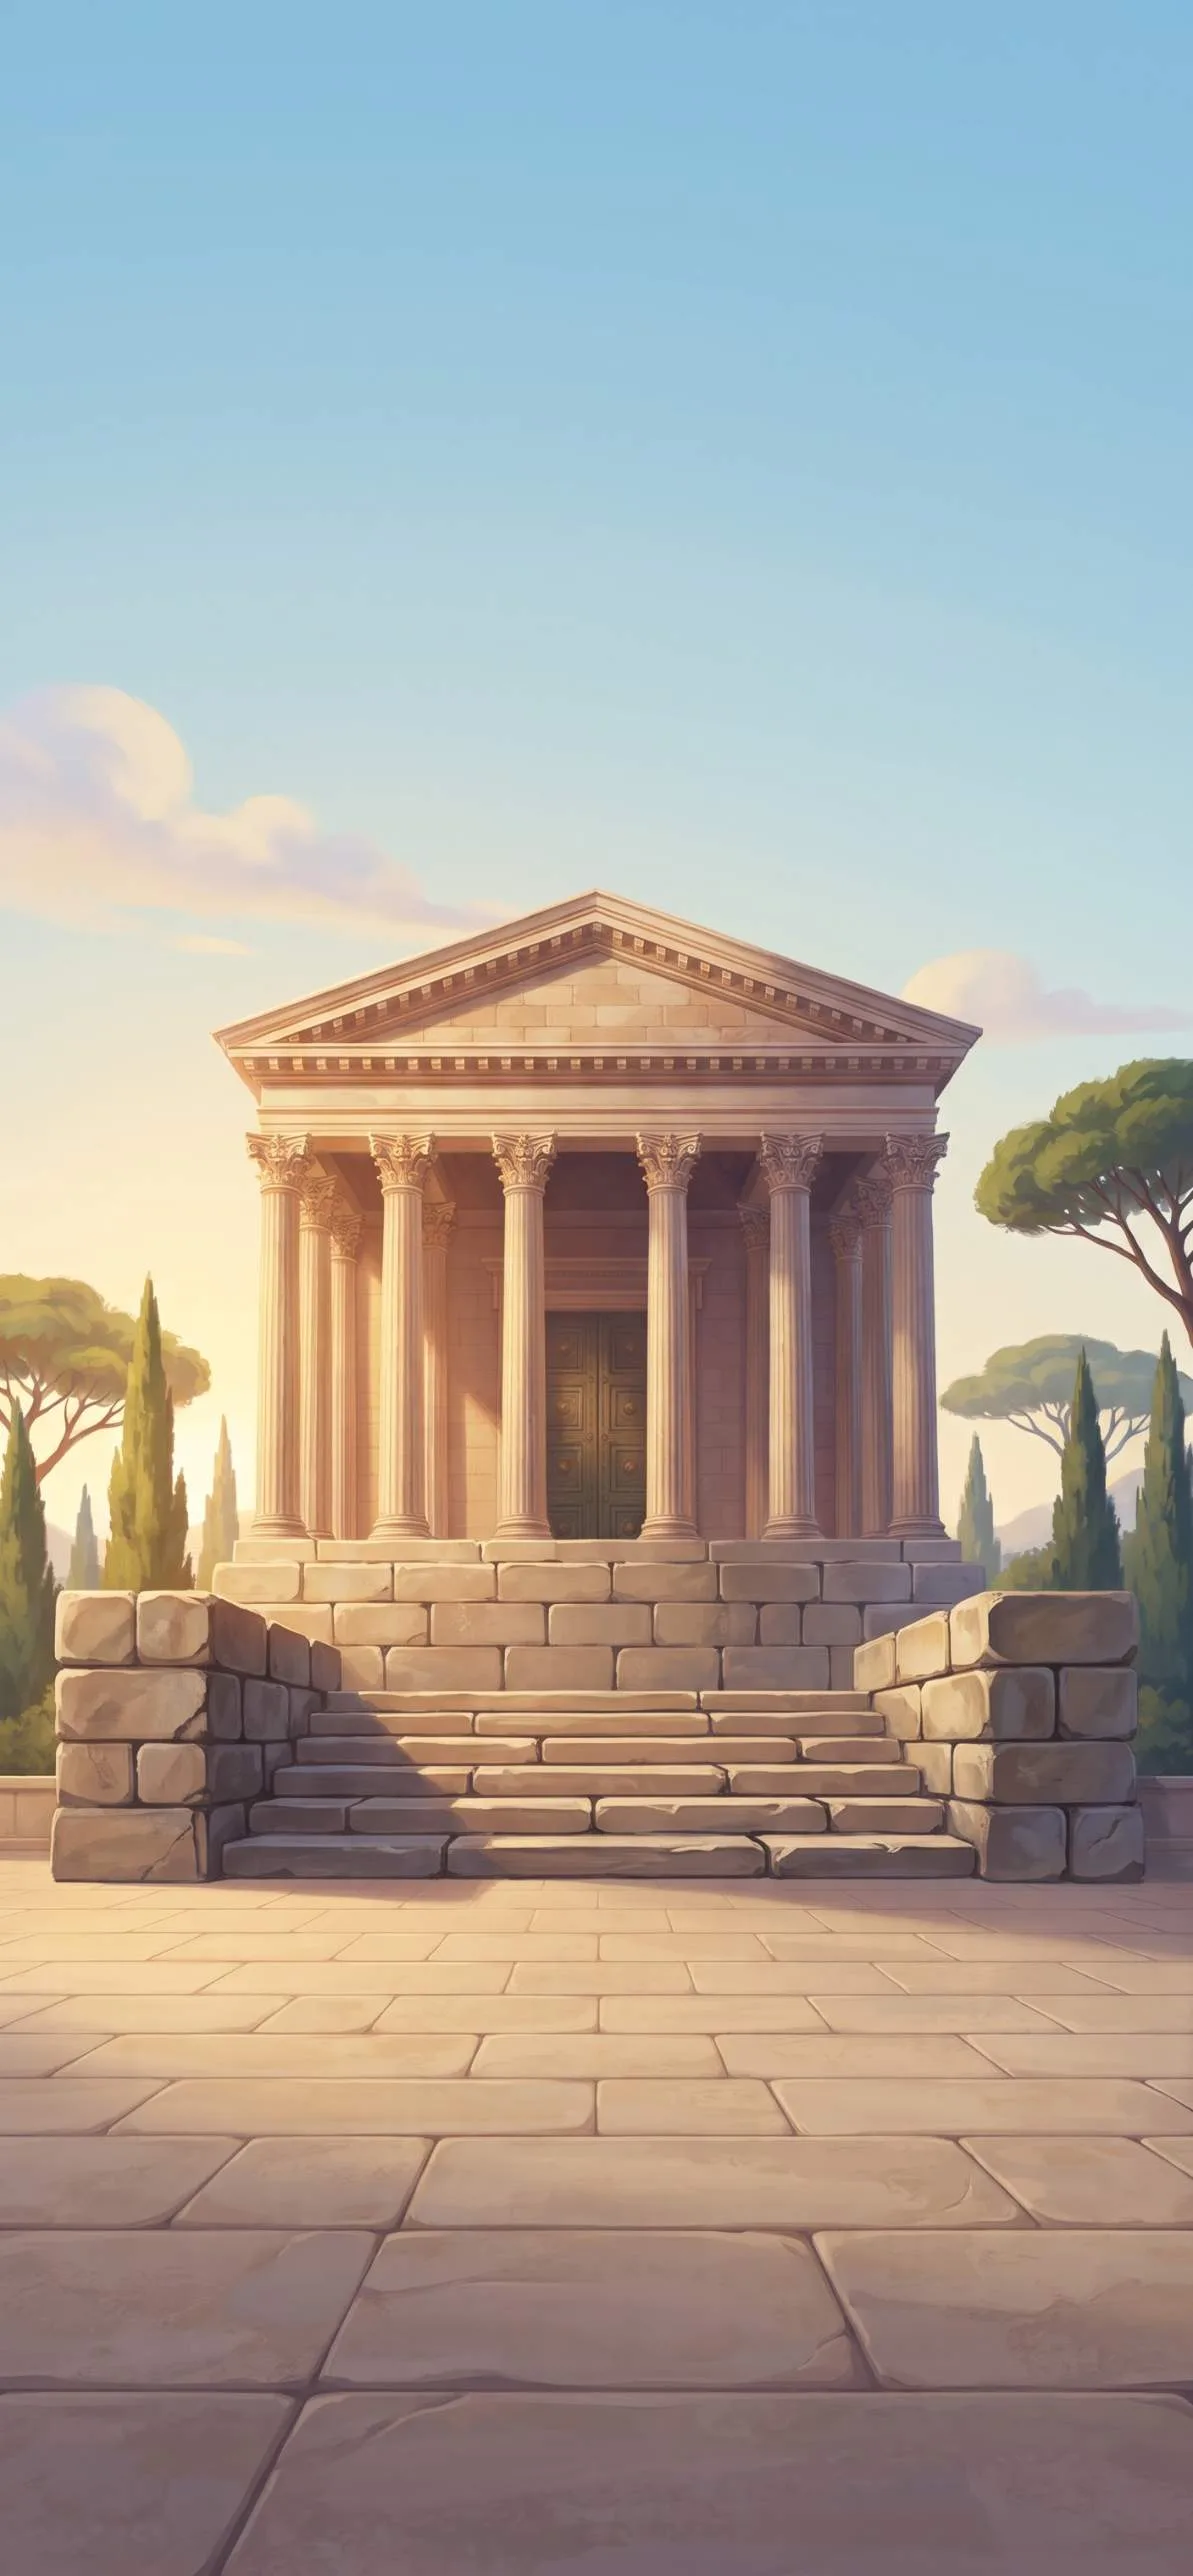
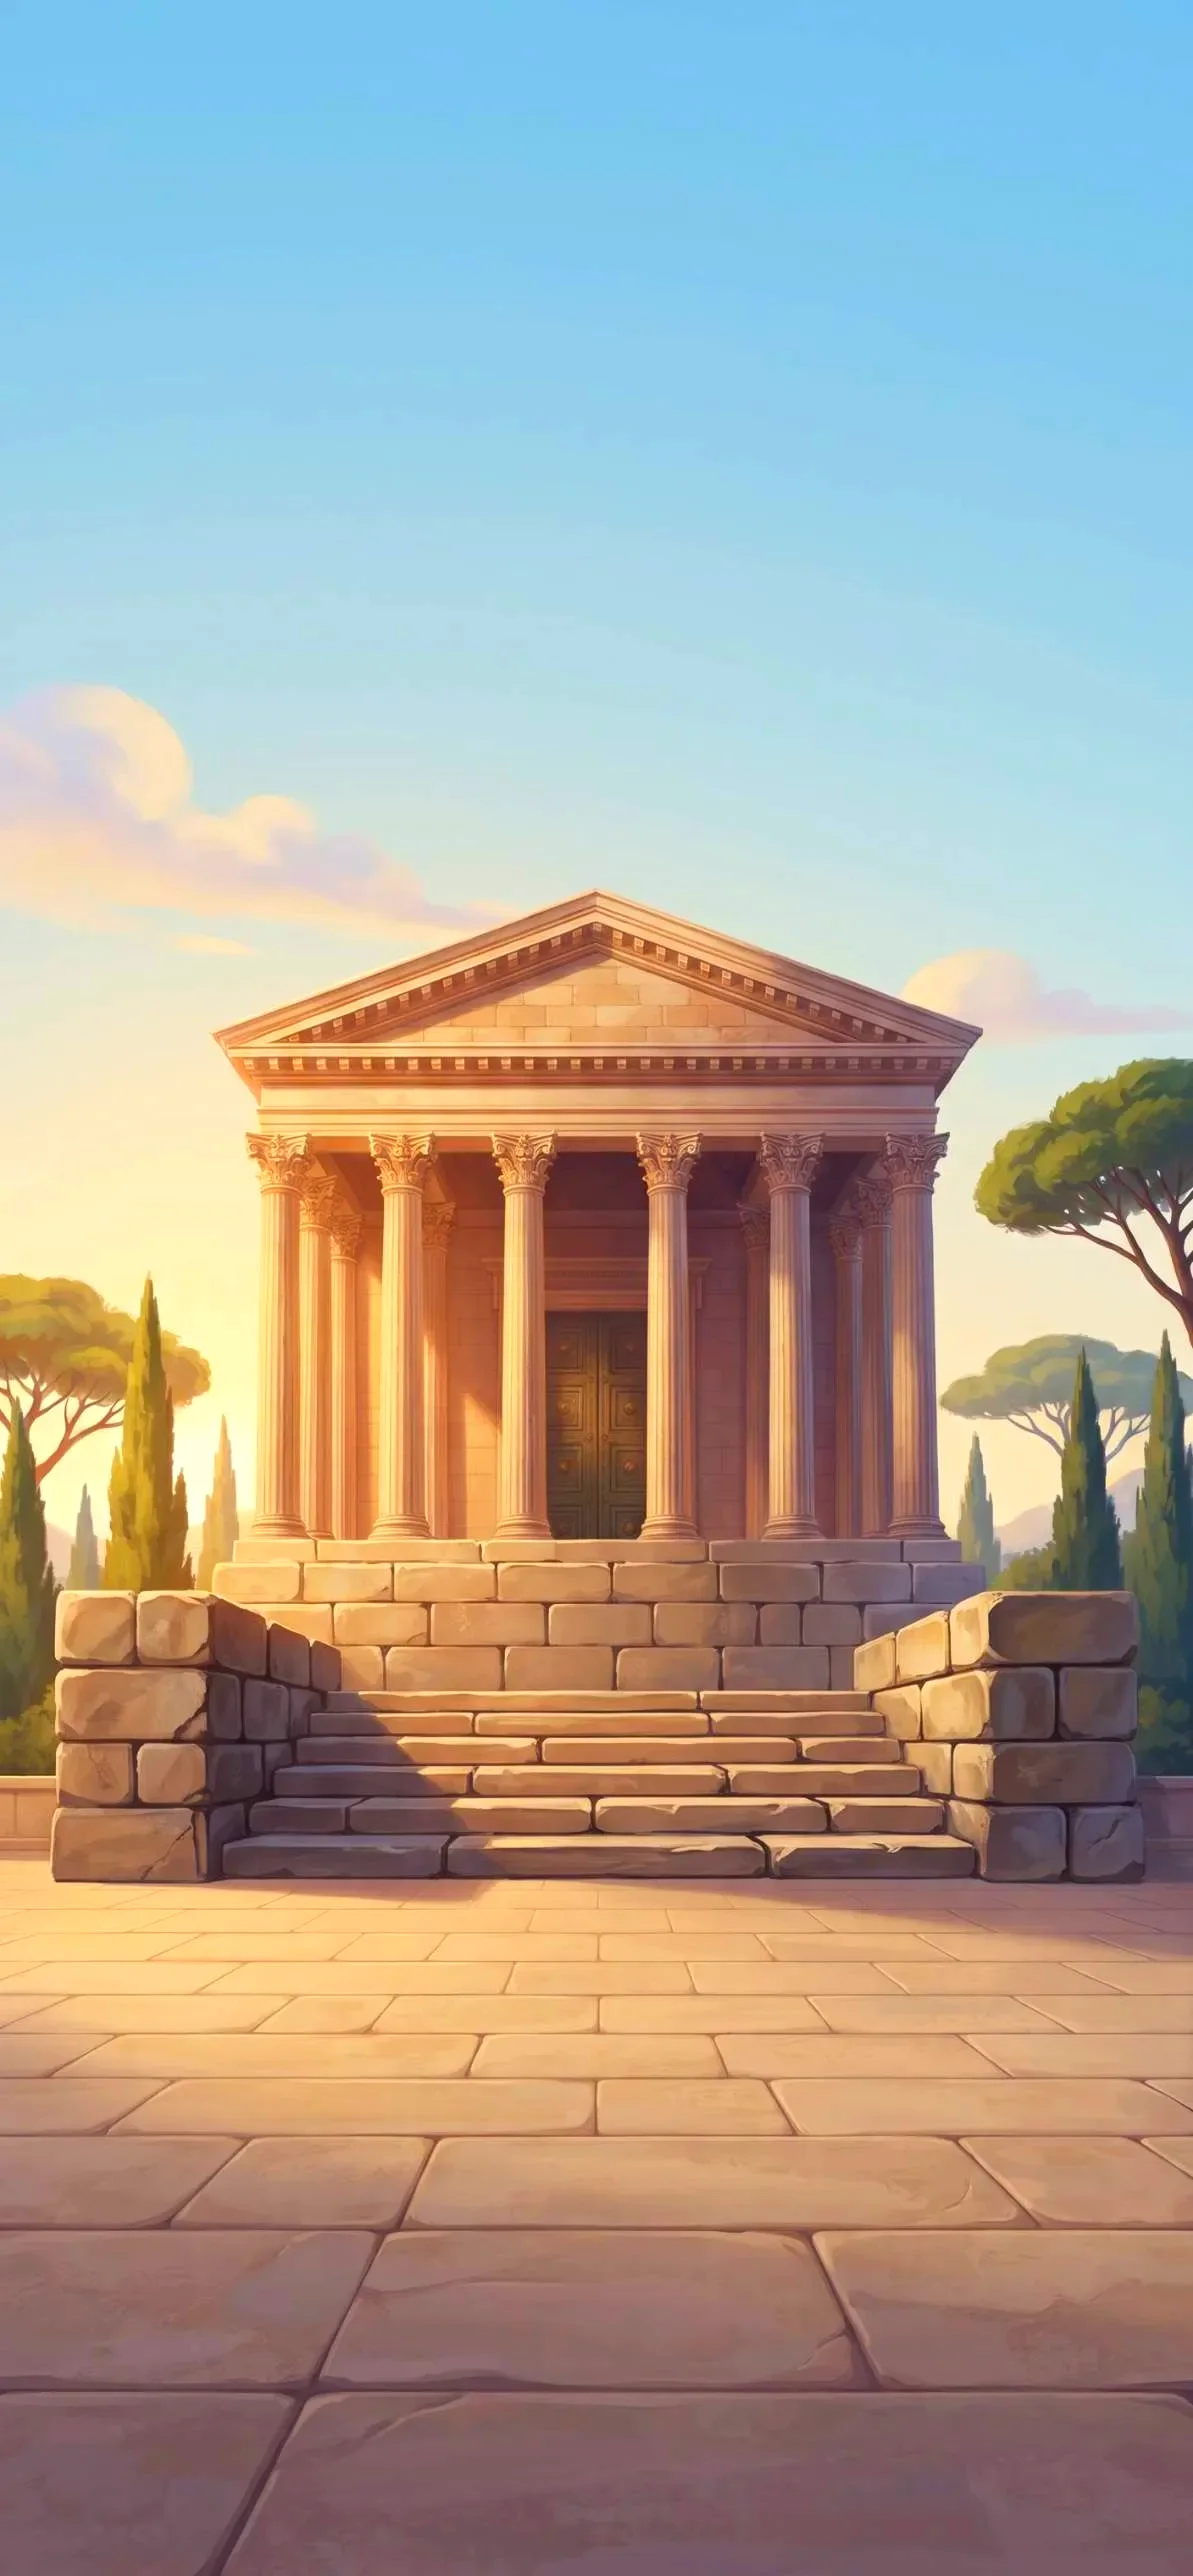
Menü daha canlı: parçalar renkli (mermer yalnız oyunda), tapınak resmi doygunluk/kontrast artırıldı [apk]
Claude-Session: https://claude.ai/code/session_01Wp7jVBAv8h4L2WuTLmtwf3

diff --git a/style.css b/style.css
@@ -607,7 +607,7 @@ html.ui-mix #menu h1, html.ui-2 #menu h1 { font-size: clamp(1.55rem, 8.4vw, 2.6r
 
 /* ===== Açılış: aydınlık Roma tapınağı (Gemini) — açık gökyüzüne uygun koyu mürekkep tonları ===== */
 html.ui-mix #menu, html.ui-2 #menu {
-  background: url("img/acilis-tapinak.webp") center bottom -16vh / cover no-repeat, #8abcdc;
+  background: url("img/acilis-tapinak.webp") center bottom -16vh / cover no-repeat, #76c2f2;
   --g1: #6B1F24; --g2: #B8862B; --glow: rgba(255,236,190,.55); --hair: rgba(107,31,36,.35); --ink: #3B2016;
 }
 html.ui-mix #menu h1, html.ui-2 #menu h1 {
@@ -634,7 +634,7 @@ html.ui-mix #menu a { color: #5A3324; text-shadow: 0 0 6px rgba(255,245,225,.8);
 html.ui-mix #menu .mascot-badge svg { filter: drop-shadow(0 4px 8px rgba(60,30,10,.35)); }
 @media (min-aspect-ratio: 56/100) {
   html.ui-mix #menu {
-    background: linear-gradient(180deg, #88bcdb 0%, #88bcdb 18%, #a3c9db 32%, #cfd6d4 48%, #e2d3b8 55%, #d6bb9c 68%, #c3a38c 82%, #9a7f74 100%);
+    background: linear-gradient(180deg, #76c2f2 0%, #76c2f2 18%, #93cdee 32%, #cfd6d4 48%, #e2d3b8 55%, #d6bb9c 68%, #c3a38c 82%, #9a7f74 100%);
   }
   html.ui-mix #menu::before { background-image: url("img/acilis-tapinak.webp"); top: 17vh; }
 }

diff --git a/js/menuyigin.js b/js/menuyigin.js
@@ -1,7 +1,9 @@
 // Lex Stack - ana menü "attract mode": oyunun gerçek parçaları gökten süzülür, dönüp hedef sütuna yönelir,
 // plazadaki yığına oturur; dolan satır altın ışıkla silinir. Yığın önbellekte (statik tuval), düşen parça
 // ayrı bir tuvalde kirli-dikdörtgenle çizilir; hareket yokken hiç çizim yapılmaz.
-import { TYPES, cellsOf, sizeOf, hasCell, getSprite, getMarbleSprite, MERMER } from './pieces.js';
+import { TYPES, cellsOf, sizeOf, hasCell, getSprite, getMarbleSprite } from './pieces.js';
+// Menü bir vitrin: parçalar renkli kalır (mermer dönüşümü yalnız oyunda)
+const MERMER = false;
 
 const menu = document.getElementById('menu');
 const mk = (cls) => { const e = document.createElement('canvas'); e.className = 'deco menu-yigin ' + cls; e.setAttribute('aria-hidden', 'true'); menu.appendChild(e); return e; };

diff --git a/sw.js b/sw.js
@@ -1,5 +1,5 @@
 // Lex Stack - service worker: önce ağ (her zaman güncel), ağ yoksa önbellek (çevrimdışı)
-const CACHE = 'lexstack-v33';
+const CACHE = 'lexstack-v34';
 const CORE = ['./', 'index.html', 'style.css', 'manifest.webmanifest', 'privacy.html', 'privacy-en.html',
   'js/main.js', 'js/board.js', 'js/pieces.js', 'js/render.js', 'js/input.js', 'js/theme.js',
   'js/music.js', 'js/sfx.js', 'js/maskot.js', 'js/menuyigin.js', 'js/skor.js', 'js/rehber.js', 'js/fx.js', 'js/roma.js', 'js/demo.js', 'js/i18n.js', 'js/gunluk.js', 'js/langsw.js', 'img/acilis-tapinak.webp', 'js/00-android.js', 'icons/icon-192.png', 'icons/icon-512.png', 'icons/icon-maskable-512.png', 'icons/apple-touch-icon.png'];
